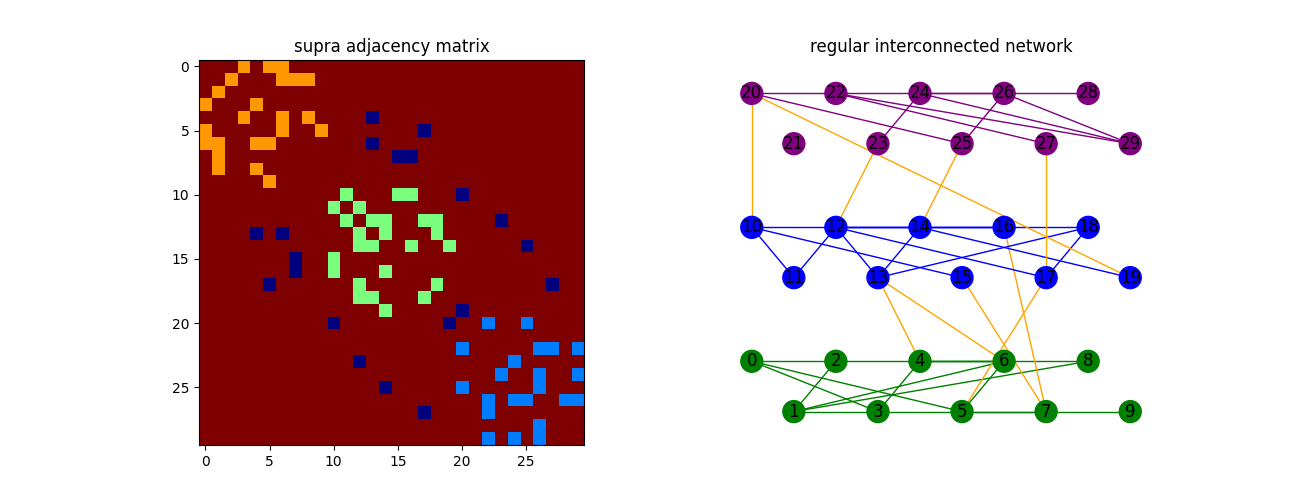
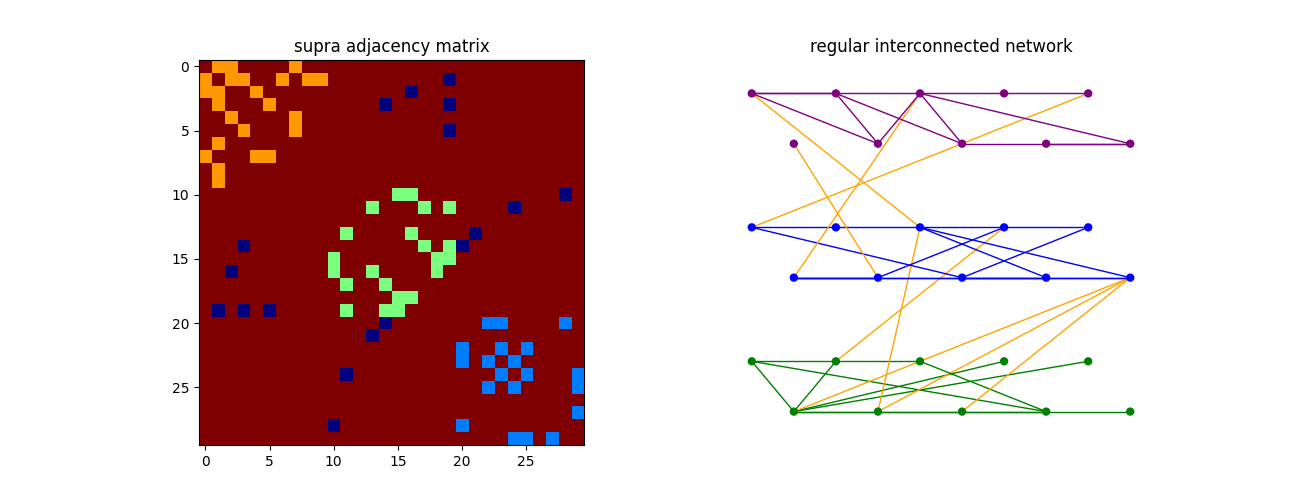
create function using matrix as parameter

diff --git a/multilayer/airlines.py b/multilayer/airlines.py
@@ -1,5 +1,5 @@
 # author: Rafael Coelho Monte Alto
-# advisor: Prof. Dr. Vander Luis 
+# advisor: Prof. Dr. Vander Freitas  
 # 2022/2023
 
 # Appling cascading failures to real networks
@@ -19,11 +19,12 @@ def readAirports(filename):
             a = Airport(id, icao, longitude, latitude)
             airports.append(a)
         # for i in airports:
-        #     i.print()
+            # i.print()
     return airports
 
 def readAirline(filename):
     airline = []
+    active = []
     with open(filename, 'r') as f:
         s = f.readline()
         active_nodes = int(s)
@@ -35,10 +36,12 @@ def readAirline(filename):
                 break
             split = s.split()
             it = int(split[1])
+            active.append(int(split[0]))
             for j in range(it):
                 tupla = (split[0], split[j+2])
                 airline.append(tupla)
-    return airline
+    # print(active)
+    return airline, active
 
 class Airport:
     def __init__(self, id, icao, longitude, latitude):
@@ -54,7 +57,7 @@ class Airport:
         for a in array: 
             a.print()
 
-from create import createGraph
+from create import createGraph, createAir
 from plot import plotGraph
 
 def main():
@@ -62,11 +65,17 @@ def main():
     airports = readAirports(filename)
     filenames = ['input/air-france.txt', 'input/british.txt', 'input/lufthansa.txt']
     layers = []
+    active_airports = []
     for i in filenames:
-        a = readAirline(i)
+        a, b = readAirline(i)
         layers.append(a)
-    
-    mg, node_color = createGraph(len(layers), 450, 3)
+        active_airports.append(b)
+
+    # print(active_airports[0][0])
+    # print(type(active_airports[0][0]))
+    matrix = [[]]
+    # mg, node_color = createGraph(len(layers), 450, 3)
+    mg, node_color = createAir(len(layers), 450, active_airports, matrix)
     plotGraph(mg, node_color)
     return 
 

diff --git a/multilayer/create.py b/multilayer/create.py
@@ -52,3 +52,41 @@ def createGraph(l=3, n=10, m=5):
             node_color.append(COLORS["nodes"][i % len(COLORS["nodes"])])
 
     return mg, node_color
+
+def createAir(l, n, active, matrix):
+    g = []
+    for i in range(l):
+        gx = nx.Graph(directed=False)
+        gx.add_nodes_from(range(0, n))
+        # gx.add_edges_from(tuple(random.sample(range(0, n), 2)) for _ in range(n+l))
+        # all nodes start in disabled status
+        nx.set_node_attributes(gx, "disabled", "status")
+        nx.set_node_attributes(gx, "white", "color")
+        # disabled airports whithin an airline 
+        for j in active[i]:
+            nx.set_node_attributes(gx, {j: "running"}, name="status")
+            nx.set_node_attributes(gx, {j: "green"}, name="color")
+        # adding to array of layers 
+        g.append(gx)
+        # print(nx.get_node_attributes(gx, "color"))
+    adj_block = mx.lil_matrix(np.zeros((n*l,n*l)))
+    # for i in range(l-1):
+    #     for _ in range(m):
+    #         adj_block[n*i + random.randint(0, n-1), n*(i+1) + random.randint(0, n-1)] = 1
+    # mirrroring
+    adj_block += adj_block.T
+    mg = mx.MultilayerGraph(list_of_layers=g, inter_adjacency_matrix=adj_block)
+    # weight of inter layer edges
+    mg.set_edges_weights(inter_layer_edges_weight=4)
+    # weights for edges within same layer
+    for i in range(l):
+        mg.set_intra_edges_weights(layer=i, weight=i+1)
+    # each layer has nodes their own distinct color
+    node_color = []
+    for i in range(mg.get_number_of_layers()):
+        for j in range(mg.get_number_of_nodes_in_layers()[i]):
+            node_color.append("white")
+        for b in active[i]:
+            node_color[b+(n*i)] = (COLORS["nodes"][i % len(COLORS["nodes"])])
+
+    return mg, node_color

diff --git a/multilayer/plot.py b/multilayer/plot.py
@@ -40,7 +40,7 @@ def plotGraph(mg, node_color):
                         proj_angle=7)
 
     custom_edge_color = [COLORS["nodes"][(mg[a][b]['weight'] - 1) % len(COLORS["nodes"])] for a,b in mg.edges()]
-    mx.draw_networkx(mg,pos=pos, ax=ax2, node_size=250, with_labels=True, node_color=node_color, 
+    mx.draw_networkx(mg,pos=pos, ax=ax2, node_size=FIGURE["node_size"], with_labels=FIGURE["with_labels"], node_color=node_color, 
                     edge_color=custom_edge_color,
                     edge_cmap=plt.cm.jet_r)
 
@@ -73,7 +73,7 @@ def save(mg, node_color, filename):
                         proj_angle=7)
 
     custom_edge_color = [COLORS["nodes"][(mg[a][b]['weight'] - 1) % len(COLORS["nodes"])] for a,b in mg.edges()]
-    mx.draw_networkx(mg,pos=pos, ax=ax2, node_size=250, with_labels=True, node_color=node_color, 
+    mx.draw_networkx(mg,pos=pos, ax=ax2, node_size=FIGURE["node_size"], with_labels=FIGURE["with_labels"], node_color=node_color, 
                     edge_color=custom_edge_color,
                     edge_cmap=plt.cm.jet_r)
     plt.savefig(filename)

diff --git a/multilayer/main.py b/multilayer/main.py
@@ -30,8 +30,8 @@ def main():
     mg = failOne(mg, node_color, 1)
     plotGraph(mg, node_color)
 
-    mg = cascade(mg, node_color, phi=0.4)
-    # mg = cascade(mg, node_color, phi=0.36)
+    # mg = cascade(mg, node_color, phi=0.4)
+    mg = cascade(mg, node_color, phi=0.36)
     print("final result")
     printAtt(mg)
     plotGraph(mg, node_color)

diff --git a/multilayer/style.py b/multilayer/style.py
@@ -13,5 +13,7 @@ COLORS = {
 FIGURE = {
     "size": (13, 5),
     "title1": "supra adjacency matrix",
-    "title2": "regular interconnected network"
+    "title2": "regular interconnected network",
+    "node_size": 10,
+    "with_labels": False
 }
